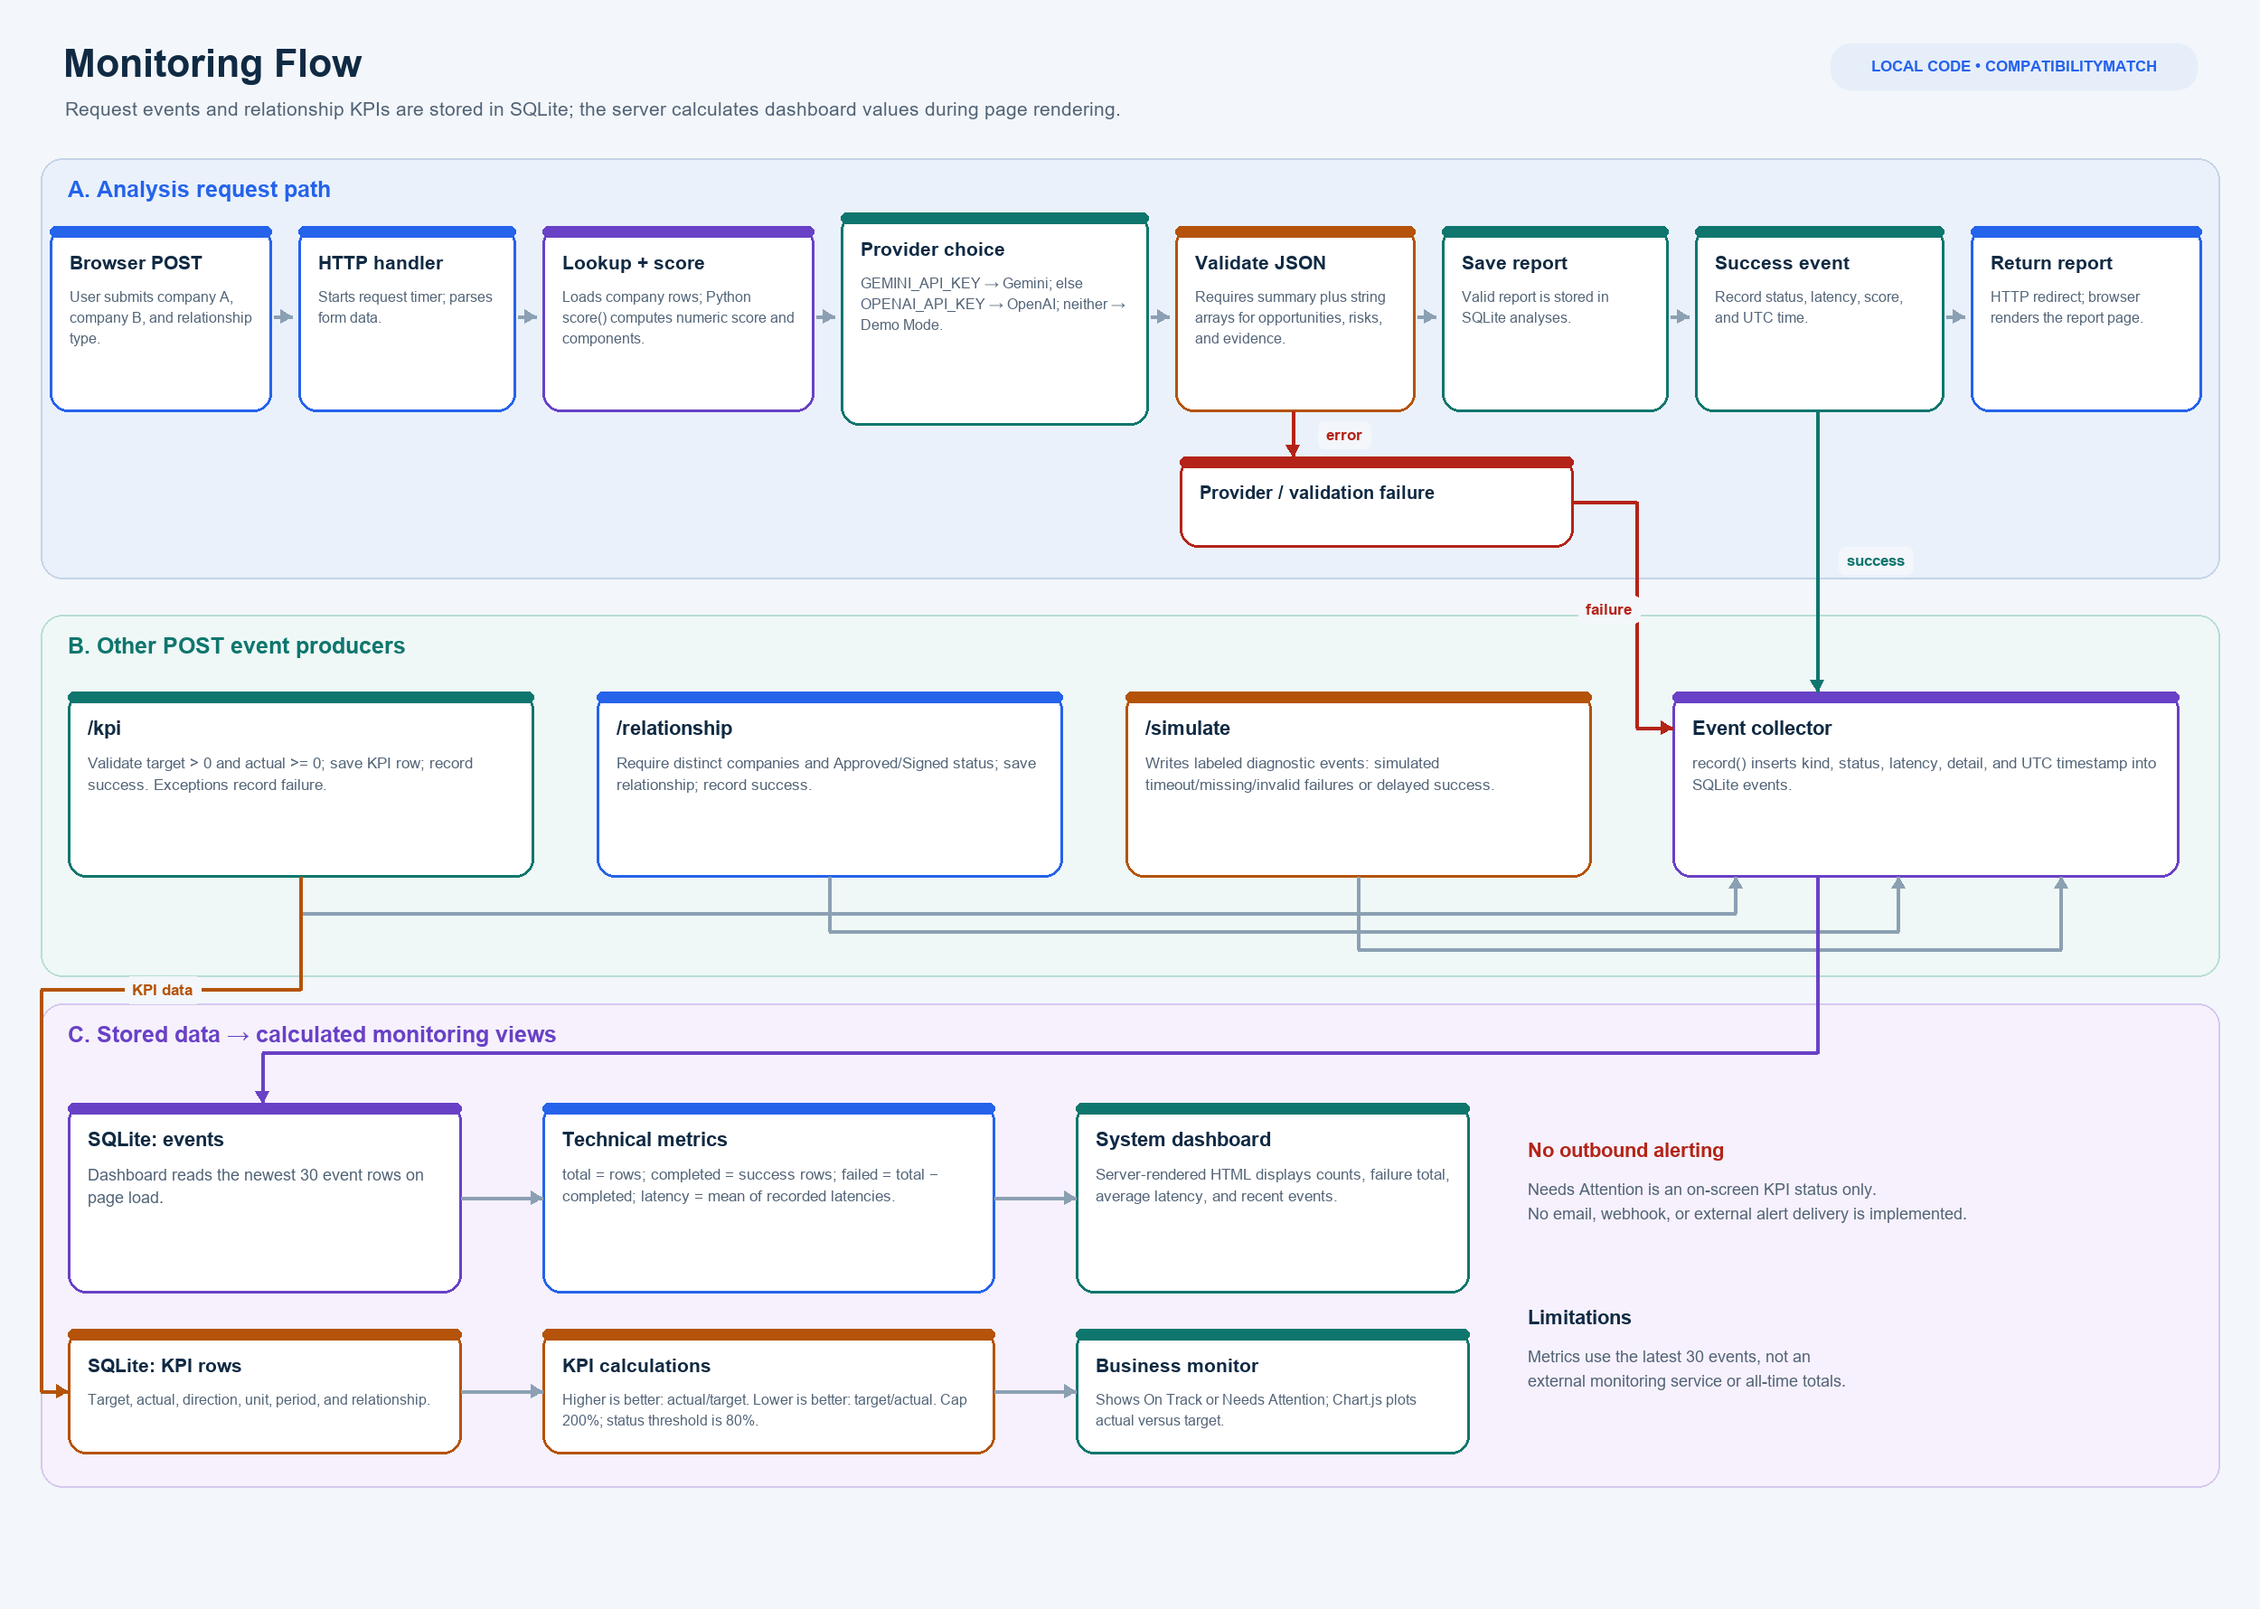
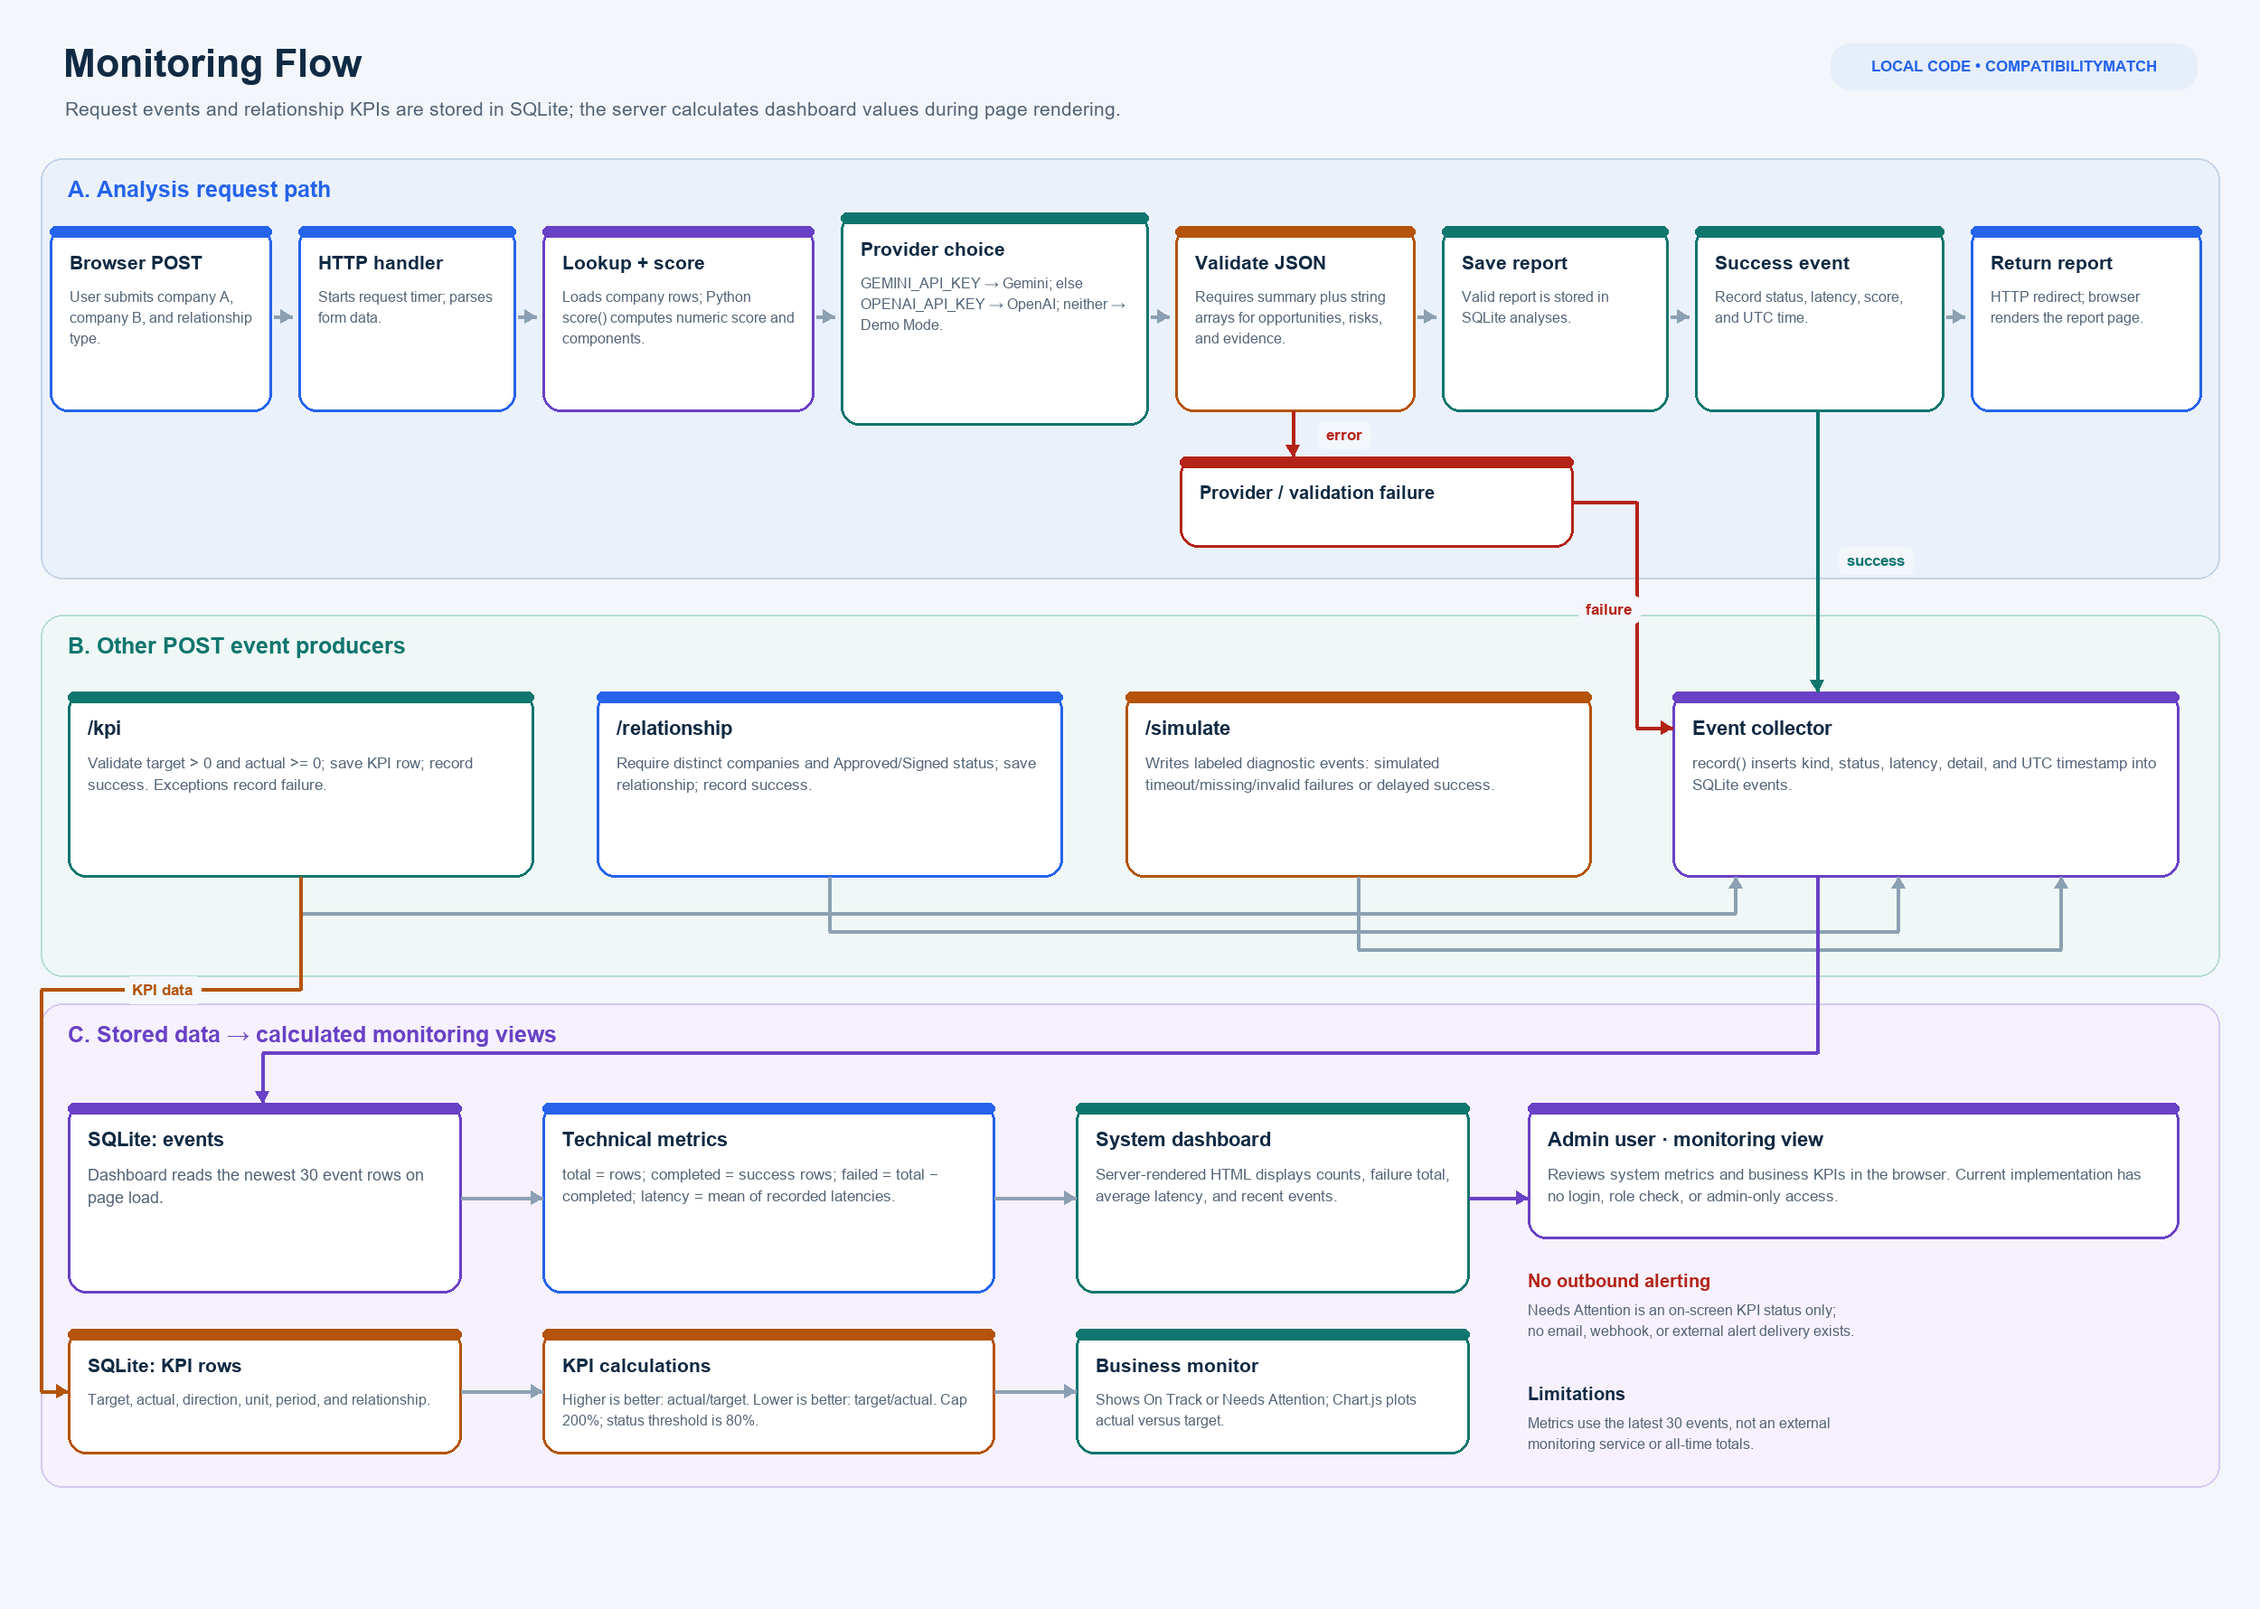
Add admin user view to monitoring flow diagram

Changed region(s): [[0.6552, 0.6798, 0.9672, 0.8961]]

diff --git a/docs/diagrams.md b/docs/diagrams.md
@@ -19,12 +19,14 @@ flowchart LR
  C --> DB[(SQLite events table)]
  DB --> M[Dashboard calculations: totals, failures, mean latency]
  M --> UI[System Monitoring Dashboard]
+ UI --> ADM[Admin user reviews metrics and events]
  C --> A[Business target/actual validation]
  A --> K[(SQLite KPI actuals)]
  K --> V[Achievement and variance calculations]
  V --> AL[Attention status]
- AL --> S[Evidence-based AI summary on analysis; management review]
+ AL --> ADM
  K --> B[Partnership dashboard and actual-vs-target chart]
+ B --> ADM
 ```
 
-Business status flow begins from a relationship recorded as approved/signed by the user; the seeded sample is explicitly marked simulated. The current UI treats KPI updates as user-entered measurements and does not infer causes.
+Business status flow begins from a relationship recorded as approved/signed by the user; the seeded sample is explicitly marked simulated. The current UI treats KPI updates as user-entered measurements and does not infer causes. The admin user in this diagram is an operational viewer only: the app currently has no login, role checks, or admin-only authorization.
